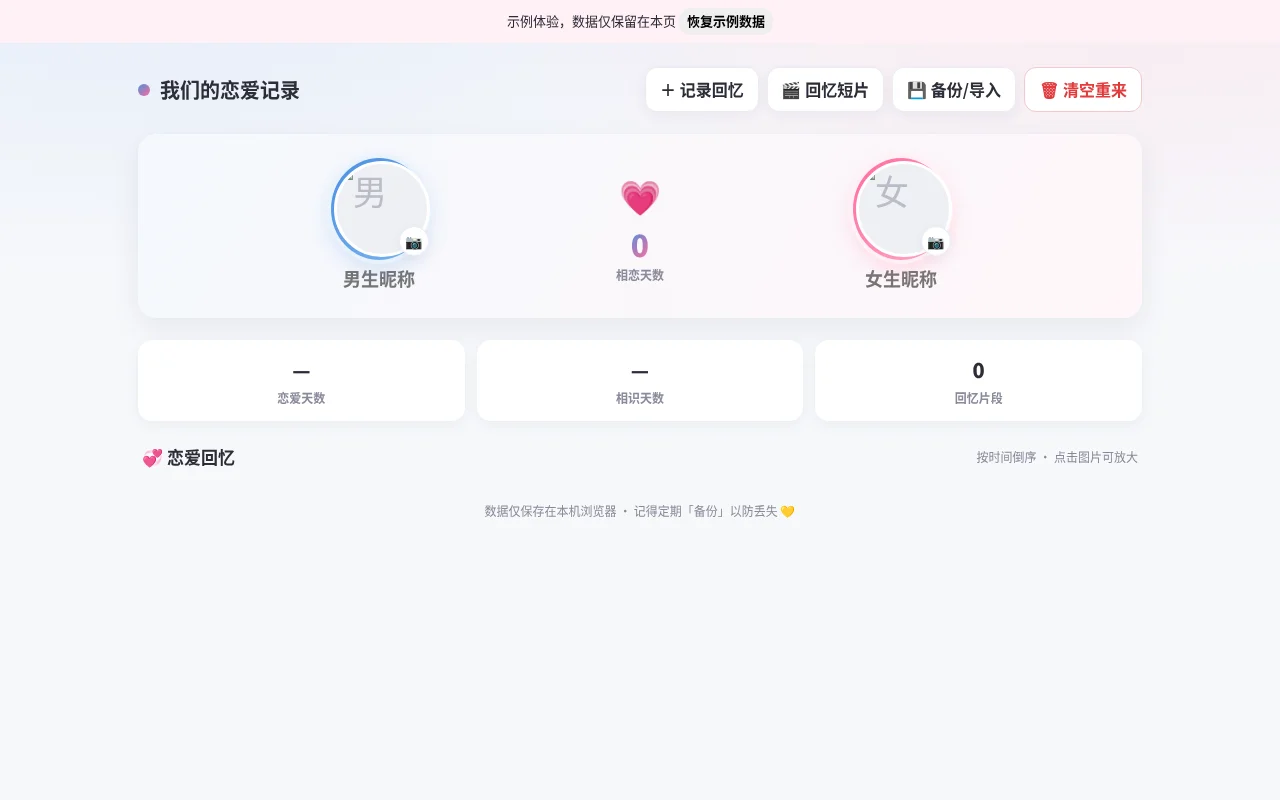
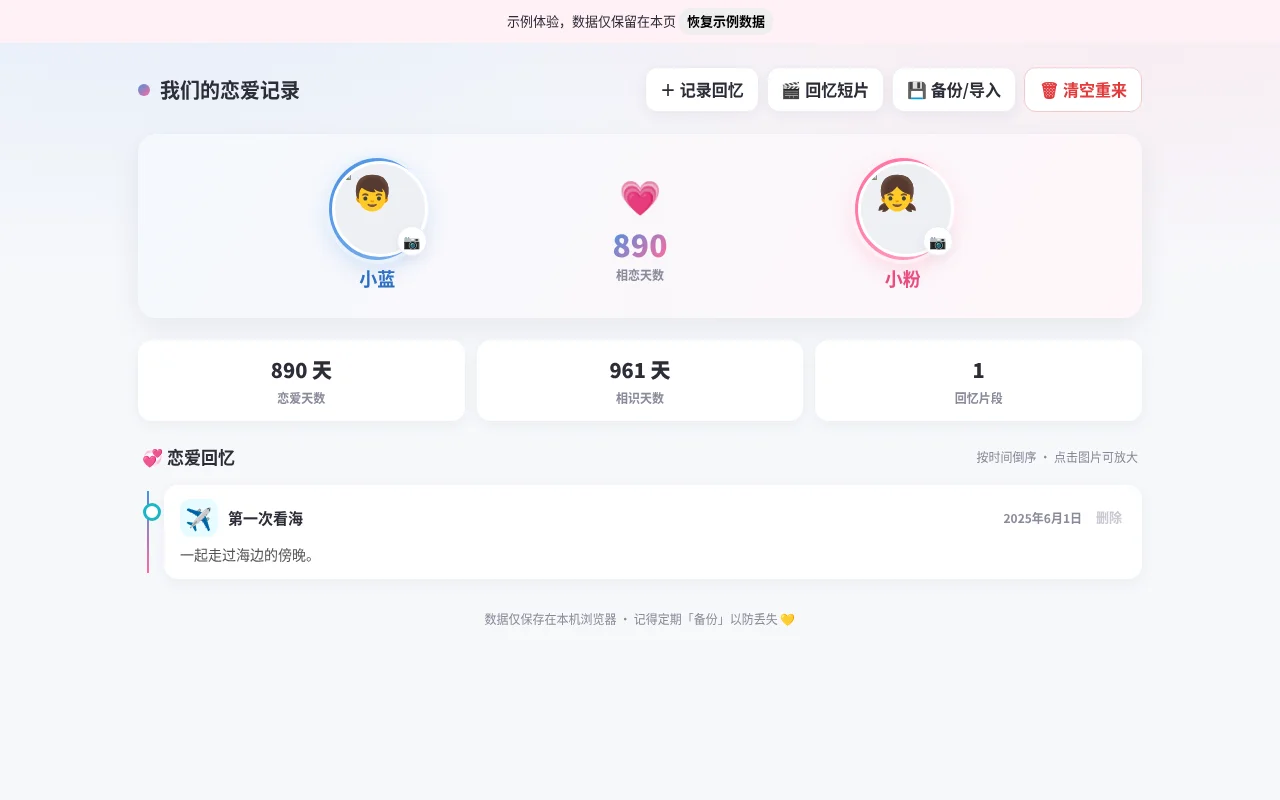
Fix love diary initialization

diff --git a/wb1024-c192-579a6fe9/src/app.js b/wb1024-c192-579a6fe9/src/app.js
@@ -1,7 +1,6 @@
 import css from "./style.css";
 const style=document.createElement("style");style.textContent=css;document.head.appendChild(style);
-document.body.innerHTML="\n<div class=\"wrap\">\n  <header class=\"topbar\">\n    <div class=\"brand\"><span class=\"dot\"></span>我们的恋爱记录</div>\n    <div class=\"top-actions\">\n      <button class=\"btn-ghost\" id=\"btnAdd\">＋ 记录回忆</button>\n      <button class=\"btn-ghost\" id=\"btn短片\">🎬 回忆短片</button>\n      <button class=\"btn-ghost\" id=\"btnBackup\">💾 备份/导入</button>\n      <button class=\"btn-danger\" id=\"btnClear\">🗑 清空重来</button>\n    </div>\n  </header>\n\n  <!-- 情侣头部 -->\n  <section class=\"hero\">\n    <div class=\"person male\">\n      <div class=\"avatar-box\">\n        <div class=\"ring\"><img alt=\"男\" class=\"avatar\" id=\"avMale\" src></div>\n        <div class=\"avatar-edit\" data-side=\"male\">📷</div>\n      </div>\n      <div class=\"name\"><input class=\"name-input\" id=\"nmMale\" maxlength=\"12\" placeholder=\"男生昵称\"></div>\n    </div>\n    <div class=\"center-heart\">\n      <div class=\"heart\">💗</div>\n      <div class=\"days-big\" id=\"daysBig\">0</div>\n      <div class=\"days-label\" id=\"daysLabel\">相恋天数</div>\n    </div>\n    <div class=\"person female\">\n      <div class=\"avatar-box\">\n        <div class=\"ring\"><img alt=\"女\" class=\"avatar\" id=\"avFemale\" src></div>\n        <div class=\"avatar-edit\" data-side=\"female\">📷</div>\n      </div>\n      <div class=\"name\"><input class=\"name-input\" id=\"nmFemale\" maxlength=\"12\" placeholder=\"女生昵称\"></div>\n    </div>\n  </section>\n\n  <!-- 数据卡 -->\n  <section class=\"stats\">\n    <div class=\"stat\">\n      <div class=\"num\" id=\"stTogether\">—</div>\n      <div class=\"lab\">恋爱天数</div>\n      <div class=\"edithint\" data-edit=\"anniversary\">设置纪念日</div>\n    </div>\n    <div class=\"stat\">\n      <div class=\"num\" id=\"stMet\">—</div>\n      <div class=\"lab\">相识天数</div>\n      <div class=\"edithint\" data-edit=\"firstMet\">设置相识日</div>\n    </div>\n    <div class=\"stat\">\n      <div class=\"num\" id=\"stCount\">0</div>\n      <div class=\"lab\">回忆片段</div>\n      <div class=\"edithint\" id=\"addFromStat\" style=\"cursor:pointer; color:var(--pink)\">＋ 添加</div>\n    </div>\n  </section>\n\n  <!-- 回忆时间线 -->\n  <div class=\"section-title\">\n    <h2>💞 恋爱回忆</h2>\n    <span class=\"hint\">按时间倒序 · 点击图片可放大</span>\n  </div>\n  <div class=\"timeline\" id=\"timeline\"></div>\n\n  <footer class=\"foot\">数据仅保存在本机浏览器 · 记得定期「备份」以防丢失 💛</footer>\n</div>\n\n<!-- 添加回忆弹窗 -->\n<div class=\"mask\" id=\"maskAdd\">\n  <div class=\"modal\">\n    <h3>记录一段恋爱回忆</h3>\n    <div class=\"field\">\n      <label>选择类型</label>\n      <div class=\"type-grid\" id=\"typeGrid\"></div>\n    </div>\n    <div class=\"field\">\n      <label>标题</label>\n      <input id=\"mTitle\" maxlength=\"30\" placeholder=\"例如：第一次一起看海\" type=\"text\">\n    </div>\n    <div class=\"field\">\n      <label>日期</label>\n      <input id=\"mDate\" type=\"date\">\n    </div>\n    <div class=\"field\">\n      <label>小记</label>\n      <textarea id=\"mDesc\" placeholder=\"写下那一刻的心情吧～\"></textarea>\n    </div>\n    <div class=\"field\">\n      <label>照片（可多张）</label>\n      <div class=\"upload-zone\" id=\"uploadZone\">点击或拖拽上传图片</div>\n      <input accept=\"image/*\" hidden id=\"fileInput\" multiple type=\"file\">\n      <div class=\"preview-imgs\" id=\"previewImgs\"></div>\n    </div>\n    <div class=\"modal-actions\">\n      <button class=\"btn-ghost\" id=\"mCancel\">取消</button>\n      <button class=\"btn-blue\" id=\"mSave\">保存回忆</button>\n    </div>\n  </div>\n</div>\n\n<!-- 日期设置弹窗 -->\n<div class=\"mask\" id=\"maskDate\">\n  <div class=\"modal\">\n    <h3 id=\"dateTitle\">设置日期</h3>\n    <div class=\"field\">\n      <label id=\"dateLabel\">选择日期</label>\n      <input id=\"dateInput\" type=\"date\">\n    </div>\n    <div class=\"modal-actions\">\n      <button class=\"btn-ghost\" id=\"dateCancel\">取消</button>\n      <button class=\"btn-blue\" id=\"dateSave\">保存</button>\n    </div>\n  </div>\n</div>\n\n<!-- 备份导入弹窗 -->\n<div class=\"mask\" id=\"maskBackup\">\n  <div class=\"modal\">\n    <h3>备份 / 导入数据</h3>\n    <p style=\"font-size:13px; color:var(--muted); margin-bottom:14px\">导出会把所有信息保存成一个文件，换电脑或清缓存前记得备份；导入可还原之前的备份。</p>\n    <div class=\"field\">\n      <button class=\"btn-blue\" id=\"exportBtn\" style=\"width:100%\">⬇ 导出备份文件（.json）</button>\n    </div>\n    <div class=\"field\">\n      <label style=\"margin-bottom:8px\">从备份文件导入</label>\n      <input accept=\"application/json,.json\" hidden id=\"importInput\" type=\"file\">\n      <button class=\"btn-ghost\" id=\"importPick\" style=\"width:100%\">⬆ 选择备份文件导入</button>\n    </div>\n    <div class=\"modal-actions\">\n      <button class=\"btn-ghost\" id=\"backupCancel\">关闭</button>\n    </div>\n  </div>\n</div>\n\n<div class=\"lightbox\" id=\"lightbox\"><button class=\"close\" id=\"lbClose\">×</button><img id=\"lbImg\" src></div>\n<div class=\"toast\" id=\"toast\"></div>\n<input accept=\"image/*\" hidden id=\"avatarInput\" type=\"file\">\n\n<script>\n/* ============ 数据层 ============ */\nconst KEY='loveRecordData_v1';\nconst TYPES=[\n  {k:'meet',e:'🤝',t:'第一次见面',cls:''},\n  {k:'eat',e:'🍜',t:'第一次吃饭',cls:'type-eat'},\n  {k:'pet',e:'🐱',t:'共同养宠物',cls:'type-pet'},\n  {k:'newyear',e:'🎆',t:'一起跨年',cls:'type-newyear'},\n  {k:'travel',e:'✈',t:'第一次旅行',cls:'type-travel'},\n  {k:'confess',e:'💕',t:'告白那天',cls:'type-confess'},\n  {k:'propose',e:'💍',t:'求婚时刻',cls:'type-propose'},\n  {k:'star',e:'⭐',t:'其他回忆',cls:''},\n];\nconst typeMap=Object.fromEntries(TYPES.map(t=>[t.k,t]));\n\nlet state=load();\nfunction load(){\n  try{\n    const raw=localStorage.getItem(KEY);\n    if(raw) return JSON.parse(raw);\n  }catch(e){}\n  return {\n    male:{name:'',avatar:''},\n    female:{name:'',avatar:''},\n    anniversary:'',   // 在一起纪念日\n    firstMet:'',       // 相识日期\n    memories:[]\n  };\n}\nfunction save(){localStorage.setItem(KEY,JSON.stringify(state));}\n\n/* ============ 工具 ============ */\nfunction $(id){return document.getElementById(id);}\nfunction toast(msg){\n  const t=$('toast');t.textContent=msg;t.classList.add('show');\n  clearTimeout(t._t);t._t=setTimeout(()=>t.classList.remove('show'),1800);\n}\nfunction daysBetween(a,b){ // a,b: yyyy-mm-dd\n  if(!a||!b) return null;\n  const d1=new Date(a+'T00:00:00'),d2=new Date(b+'T00:00:00');\n  return Math.round((d2-d1)/86400000);\n}\nfunction today(){return new Date().toISOString().slice(0,10);}\nfunction fmtDate(s){if(!s)return'';const[y,m,d]=s.split('-');return `${y}年${+m}月${+d}日`;}\n\n/* ============ 渲染 ============ */\nfunction render(){\n  $('nmMale').value=state.male.name||'';\n  $('nmFemale').value=state.female.name||'';\n  setAvatar('avMale',state.male.avatar,'👦');\n  setAvatar('avFemale',state.female.avatar,'👧');\n\n  const t=today();\n  const together=daysBetween(state.anniversary,t);\n  const met=daysBetween(state.firstMet,t);\n  $('daysBig').textContent=together!=null&&together>=0?together:0;\n  $('stTogether').textContent=together!=null&&together>=0?together+' 天':'未设置';\n  $('stMet').textContent=met!=null&&met>=0?met+' 天':'未设置';\n  $('stMet').title=state.firstMet?fmtDate(state.firstMet):'';\n  $('stCount').textContent=state.memories.length;\n\n  renderTimeline();\n}\nfunction setAvatar(id,src,placeholder){\n  const el=$(id);\n  if(src){el.src=src;el.style.color='transparent';}\n  else{el.removeAttribute('src');el.alt=placeholder;el.style.color='';}\n}\nfunction renderTimeline(){\n  const box=$('timeline');\n  if(!state.memories.length){\n    box.innerHTML=`<div class=\"empty\"><div class=\"big\">📖</div>还没有回忆，点右上角「＋ 记录回忆」写下第一个故事吧～</div>`;\n    return;\n  }\n  const list=[...state.memories].sort((a,b)=>(b.date||'').localeCompare(a.date||''));\n  box.innerHTML=list.map(m=>{\n    const ty=typeMap[m.type]||{e:'⭐',t:'回忆',cls:''};\n    const imgs=(m.images||[]).map(src=>`<img src=\"${src}\" data-full=\"${src}\" alt=\"\">`).join('');\n    return `<div class=\"mem ${ty.cls}\">\n      <div class=\"mem-head\">\n        <div class=\"mem-emoji\">${m.customEmoji||ty.e}</div>\n        <div class=\"mem-title\">${escapeHtml(m.title||ty.t)}</div>\n        <div class=\"mem-date\">${m.date?fmtDate(m.date):''}</div>\n        <button class=\"mem-del\" data-del=\"${m.id}\">删除</button>\n      </div>\n      ${m.desc?`<div class=\"mem-desc\">${escapeHtml(m.desc)}</div>`:''}\n      ${imgs?`<div class=\"mem-imgs\">${imgs}</div>`:''}\n    </div>`;\n  }).join('');\n}\nfunction escapeHtml(s){return (s||'').replace(/[&<>\"]/g,c=>({'&':'&amp;','<':'&lt;','>':'&gt;','\"':'&quot;'}[c]));}\n\n/* ============ 头像上传 ============ */\ndocument.querySelectorAll('.avatar-edit').forEach(btn=>{\n  btn.addEventListener('click',()=>{$('avatarInput').dataset.side=btn.dataset.side;$('avatarInput').click();});\n});\n$('avatarInput').addEventListener('change',e=>{\n  const f=e.target.files[0];if(!f)return;\n  compressImage(f,400,0.85,b64=>{\n    const side=$('avatarInput').dataset.side;\n    state[side].avatar=b64;save();render();toast('头像已更新 ✨');\n  });\n});\n$('nmMale').addEventListener('input',e=>{state.male.name=e.target.value;save();});\n$('nmFemale').addEventListener('input',e=>{state.female.name=e.target.value;save();});\n\n/* ============ 图片压缩 ============ */\nfunction compressImage(file,maxW,quality,cb){\n  const reader=new FileReader();\n  reader.onload=ev=>{\n    const img=new Image();\n    img.onload=()=>{\n      let {width,height}=img;\n      if(width>maxW){height=Math.round(height*maxW/width);width=maxW;}\n      const cv=document.createElement('canvas');cv.width=width;cv.height=height;\n      cv.getContext('2d').drawImage(img,0,0,width,height);\n      cb(cv.toDataURL('image/jpeg',quality));\n    };\n    img.src=ev.target.result;\n  };\n  reader.readAsDataURL(file);\n}\n\n/* ============ 添加回忆 ============ */\nlet curType='meet';let curCustomEmoji=null;let pendingImgs=[];\nfunction buildTypeGrid(){\n  $('typeGrid').innerHTML=TYPES.map((t,i)=>\n    `<div class=\"type-chip ${i===0?'sel':''} ${t.k==='star'?'custom':''}\" data-k=\"${t.k}\">\n       <span class=\"e\">${t.e}</span>${t.t}\n     </div>`).join('');\n  $('typeGrid').querySelectorAll('.type-chip').forEach(c=>{\n    c.addEventListener('click',()=>{\n      $('typeGrid').querySelectorAll('.type-chip').forEach(x=>x.classList.remove('sel'));\n      c.classList.add('sel');curType=c.dataset.k;curCustomEmoji=null;\n      const ty=typeMap[curType];$('mTitle').value=ty.t;\n    });\n  });\n}\n$('btnAdd').addEventListener('click',openAdd);\n$('addFromStat').addEventListener('click',openAdd);\nfunction openAdd(){\n  curType='meet';curCustomEmoji=null;pendingImgs=[];\n  buildTypeGrid();\n  $('typeGrid').querySelector('.type-chip').classList.add('sel');\n  $('mTitle').value='第一次见面';\n  $('mDate').value=today();\n  $('mDesc').value='';\n  $('previewImgs').innerHTML='';\n  $('maskAdd').classList.add('show');\n}\n$('mCancel').addEventListener('click',()=>$('maskAdd').classList.remove('show'));\n$('uploadZone').addEventListener('click',()=>$('fileInput').click());\n$('uploadZone').addEventListener('dragover',e=>{e.preventDefault();$('uploadZone').style.borderColor='var(--blue)';});\n$('uploadZone').addEventListener('dragleave',()=>$('uploadZone').style.borderColor='');\n$('uploadZone').addEventListener('drop',e=>{e.preventDefault();handleFiles(e.dataTransfer.files);});\n$('fileInput').addEventListener('change',e=>handleFiles(e.target.files));\nfunction handleFiles(files){\n  [...files].forEach(f=>{\n    compressImage(f,1000,0.8,b64=>{pendingImgs.push(b64);renderPreview();});\n  });\n}\nfunction renderPreview(){\n  $('previewImgs').innerHTML=pendingImgs.map((s,i)=>\n    `<div class=\"pv\"><img src=\"${s}\"><button class=\"x\" data-i=\"${i}\">×</button></div>`).join('');\n  $('previewImgs').querySelectorAll('.x').forEach(b=>{\n    b.addEventListener('click',()=>{pendingImgs.splice(+b.dataset.i,1);renderPreview();});\n  });\n}\n$('mSave').addEventListener('click',()=>{\n  const title=$('mTitle').value.trim()||typeMap[curType].t;\n  const date=$('mDate').value;\n  if(!date){toast('请选择日期');return;}\n  state.memories.push({\n    id:'m'+Date.now()+Math.random().toString(36).slice(2,6),\n    type:curType,title,date,desc:$('mDesc').value.trim(),\n    images:[...pendingImgs],customEmoji:curCustomEmoji\n  });\n  save();render();$('maskAdd').classList.remove('show');toast('已记录这段回忆 💞');\n});\n\n/* 删除回忆 */\n$('timeline').addEventListener('click',e=>{\n  const del=e.target.dataset.del;\n  if(del){\n    if(confirm('确定删除这段回忆吗？')){\n      state.memories=state.memories.filter(m=>m.id!==del);save();render();toast('已删除');\n    }\n    return;\n  }\n  const full=e.target.dataset.full;\n  if(full){$('lbImg').src=full;$('lightbox').classList.add('show');}\n});\n$('lbClose').addEventListener('click',()=>$('lightbox').classList.remove('show'));\n$('lightbox').addEventListener('click',e=>{if(e.target.id==='lightbox')$('lightbox').classList.remove('show');});\n\n/* ============ 日期设置 ============ */\ndocument.querySelectorAll('.edithint[data-edit]').forEach(h=>{\n  h.addEventListener('click',()=>{\n    const which=h.dataset.edit;\n    $('dateTitle').textContent=which==='anniversary'?'设置「在一起」纪念日':'设置「相识」日期';\n    $('dateLabel').textContent=which==='anniversary'?'从这一天起正式在一起 💍':'记得最初相遇的那天 👀';\n    $('dateInput').value=state[which]||'';\n    $('dateSave').dataset.which=which;\n    $('maskDate').classList.add('show');\n  });\n});\n$('dateCancel').addEventListener('click',()=>$('maskDate').classList.remove('show'));\n$('dateSave').addEventListener('click',()=>{\n  const which=$('dateSave').dataset.which;\n  state[which]=$('dateInput').value;save();render();\n  $('maskDate').classList.remove('show');toast('日期已保存 ✅');\n});\n\n/* ============ 备份 / 导入 ============ */\n$('btnBackup').addEventListener('click',()=>$('maskBackup').classList.add('show'));\n$('backupCancel').addEventListener('click',()=>$('maskBackup').classList.remove('show'));\n$('exportBtn').addEventListener('click',()=>{\n  const blob=new Blob([JSON.stringify(state,null,2)],{type:'application/json'});\n  const a=document.createElement('a');\n  const name=`恋爱记录备份_${today()}.json`;\n  a.href=URL.createObjectURL(blob);a.download=name;a.click();\n  URL.revokeObjectURL(a.href);toast('备份已导出 💾');\n});\n$('importPick').addEventListener('click',()=>$('importInput').click());\n$('importInput').addEventListener('change',e=>{\n  const f=e.target.files[0];if(!f)return;\n  const r=new FileReader();\n  r.onload=ev=>{\n    try{\n      const data=JSON.parse(ev.target.result);\n      if(!confirm('导入会覆盖当前数据，确定继续吗？'))return;\n      state=Object.assign(load(),data);save();render();\n      $('maskBackup').classList.remove('show');toast('备份已导入 ✅');\n    }catch(err){toast('文件格式不正确');}\n  };\n  r.readAsText(f);\n});\n\n/* ============ 清空重来 ============ */\n$('btnClear').addEventListener('click',()=>{\n  if(confirm('⚠ 将清空所有信息、头像和回忆，且无法恢复（除非已备份）。确定吗？')){\n    if(confirm('再确认一次：真的要清空重来吗？')){\n      state=load();state.memories=[];state.male={name:'',avatar:''};state.female={name:'',avatar:''};\n      state.anniversary='';state.firstMet='';save();render();toast('已清空，重新开始吧 🌱');\n    }\n  }\n});\n\n/* ============ 回忆短片（独立可分享 HTML） ============ */\n$('btn短片').addEventListener('click',()=>{\n  if(!state.memories.length){toast('还没有回忆可以做成短片哦');return;}\n  const html=buildSlideshow();\n  const blob=new Blob([html],{type:'text/html'});\n  const a=document.createElement('a');\n  a.href=URL.createObjectURL(blob);a.download=`回忆短片_${today()}.html`;a.click();\n  URL.revokeObjectURL(a.href);toast('回忆短片已生成 🎬 用浏览器打开即可播放');\n});\nfunction buildSlideshow(){\n  const m=state.male.name||'他',f=state.female.name||'她';\n  const list=[...state.memories].sort((a,b)=>(a.date||'').localeCompare(b.date||''));\n  const slides=list.map(x=>{\n    const ty=typeMap[x.type]||{e:'⭐',t:'回忆'};\n    const imgs=(x.images||[]).map(s=>`<div class=\"ph\"><img src=\"${s}\"></div>`).join('');\n    return `<section class=\"slide\"><div class=\"emoji\">${x.customEmoji||ty.e}</div>\n      <h2>${escapeHtml(x.title||ty.t)}</h2>\n      <p class=\"dt\">${x.date?fmtDate(x.date):''}</p>\n      ${x.desc?`<p class=\"desc\">${escapeHtml(x.desc)}</p>`:''}\n      ${imgs?`<div class=\"photos\">${imgs}</div>`:''}</section>`;\n  }).join('');\n  return `<!DOCTYPE html><html lang=\"zh-CN\"><head><meta charset=\"UTF-8\">\n<meta name=\"viewport\" content=\"width=device-width,initial-scale=1\">\n<title>${escapeHtml(m)} & ${escapeHtml(f)} 的回忆短片</title>\n<style>\n*{box-sizing:border-box;margin:0;padding:0}\nbody{font-family:\"PingFang SC\",\"Microsoft YaHei\",sans-serif;background:#11131a;color:#fff;overflow:hidden}\n.slide{position:absolute;inset:0;display:none;flex-direction:column;align-items:center;justify-content:center;\n  padding:40px;text-align:center;background:radial-gradient(900px 500px at 50% 30%,rgba(74,144,226,.25),transparent),radial-gradient(900px 500px at 50% 80%,rgba(255,107,157,.25),transparent),#11131a;animation:fade .8s ease}\n.slide.on{display:flex}\n@keyframes fade{from{opacity:0;transform:scale(.98)}to{opacity:1;transform:none}}\n.emoji{font-size:64px;margin-bottom:14px;animation:beat 1.6s infinite}\n@keyframes beat{0%,100%{transform:scale(1)}30%{transform:scale(1.12)}}\n.slide h2{font-size:30px;margin-bottom:8px}\n.dt{color:#ffd2e2;font-weight:600;margin-bottom:14px}\n.desc{color:#cfd2dc;max-width:560px;white-space:pre-wrap;line-height:1.7}\n.photos{display:flex;gap:12px;margin-top:22px;flex-wrap:wrap;justify-content:center}\n.ph img{width:200px;height:200px;object-fit:cover;border-radius:14px;box-shadow:0 8px 28px rgba(0,0,0,.4)}\n.hud{position:fixed;left:0;right:0;bottom:18px;text-align:center;color:#9aa;font-size:13px;z-index:5}\n.bar{position:fixed;top:0;left:0;height:4px;background:linear-gradient(90deg,#4a90e2,#ff6b9d);z-index:5;transition:width .4s}\n.titlecard{position:absolute;inset:0;display:flex;flex-direction:column;align-items:center;justify-content:center;text-align:center;z-index:3}\n.titlecard h1{font-size:40px;background:linear-gradient(135deg,#7db4f0,#ffa6c4);-webkit-background-clip:text;background-clip:text;color:transparent}\n.titlecard p{color:#cfd2dc;margin-top:10px}\n</style></head><body>\n<div class=\"bar\" id=\"bar\"></div>\n<div class=\"titlecard\" id=\"tc\"><h1>${escapeHtml(m)} ❤ ${escapeHtml(f)}</h1><p>我们的恋爱回忆短片 · 共 ${list.length} 段</p></div>\n${slides}\n<div class=\"hud\">空格/→ 下一页 · ← 上一页 · 点击切换</div>\n";
-
+document.body.innerHTML="\n<div class=\"wrap\">\n  <header class=\"topbar\">\n    <div class=\"brand\"><span class=\"dot\"></span>我们的恋爱记录</div>\n    <div class=\"top-actions\">\n      <button class=\"btn-ghost\" id=\"btnAdd\">＋ 记录回忆</button>\n      <button class=\"btn-ghost\" id=\"btn短片\">🎬 回忆短片</button>\n      <button class=\"btn-ghost\" id=\"btnBackup\">💾 备份/导入</button>\n      <button class=\"btn-danger\" id=\"btnClear\">🗑 清空重来</button>\n    </div>\n  </header>\n\n  <!-- 情侣头部 -->\n  <section class=\"hero\">\n    <div class=\"person male\">\n      <div class=\"avatar-box\">\n        <div class=\"ring\"><img alt=\"男\" class=\"avatar\" id=\"avMale\" src></div>\n        <div class=\"avatar-edit\" data-side=\"male\">📷</div>\n      </div>\n      <div class=\"name\"><input class=\"name-input\" id=\"nmMale\" maxlength=\"12\" placeholder=\"男生昵称\"></div>\n    </div>\n    <div class=\"center-heart\">\n      <div class=\"heart\">💗</div>\n      <div class=\"days-big\" id=\"daysBig\">0</div>\n      <div class=\"days-label\" id=\"daysLabel\">相恋天数</div>\n    </div>\n    <div class=\"person female\">\n      <div class=\"avatar-box\">\n        <div class=\"ring\"><img alt=\"女\" class=\"avatar\" id=\"avFemale\" src></div>\n        <div class=\"avatar-edit\" data-side=\"female\">📷</div>\n      </div>\n      <div class=\"name\"><input class=\"name-input\" id=\"nmFemale\" maxlength=\"12\" placeholder=\"女生昵称\"></div>\n    </div>\n  </section>\n\n  <!-- 数据卡 -->\n  <section class=\"stats\">\n    <div class=\"stat\">\n      <div class=\"num\" id=\"stTogether\">—</div>\n      <div class=\"lab\">恋爱天数</div>\n      <div class=\"edithint\" data-edit=\"anniversary\">设置纪念日</div>\n    </div>\n    <div class=\"stat\">\n      <div class=\"num\" id=\"stMet\">—</div>\n      <div class=\"lab\">相识天数</div>\n      <div class=\"edithint\" data-edit=\"firstMet\">设置相识日</div>\n    </div>\n    <div class=\"stat\">\n      <div class=\"num\" id=\"stCount\">0</div>\n      <div class=\"lab\">回忆片段</div>\n      <div class=\"edithint\" id=\"addFromStat\" style=\"cursor:pointer; color:var(--pink)\">＋ 添加</div>\n    </div>\n  </section>\n\n  <!-- 回忆时间线 -->\n  <div class=\"section-title\">\n    <h2>💞 恋爱回忆</h2>\n    <span class=\"hint\">按时间倒序 · 点击图片可放大</span>\n  </div>\n  <div class=\"timeline\" id=\"timeline\"></div>\n\n  <footer class=\"foot\">数据仅保存在本机浏览器 · 记得定期「备份」以防丢失 💛</footer>\n</div>\n\n<!-- 添加回忆弹窗 -->\n<div class=\"mask\" id=\"maskAdd\">\n  <div class=\"modal\">\n    <h3>记录一段恋爱回忆</h3>\n    <div class=\"field\">\n      <label>选择类型</label>\n      <div class=\"type-grid\" id=\"typeGrid\"></div>\n    </div>\n    <div class=\"field\">\n      <label>标题</label>\n      <input id=\"mTitle\" maxlength=\"30\" placeholder=\"例如：第一次一起看海\" type=\"text\">\n    </div>\n    <div class=\"field\">\n      <label>日期</label>\n      <input id=\"mDate\" type=\"date\">\n    </div>\n    <div class=\"field\">\n      <label>小记</label>\n      <textarea id=\"mDesc\" placeholder=\"写下那一刻的心情吧～\"></textarea>\n    </div>\n    <div class=\"field\">\n      <label>照片（可多张）</label>\n      <div class=\"upload-zone\" id=\"uploadZone\">点击或拖拽上传图片</div>\n      <input accept=\"image/*\" hidden id=\"fileInput\" multiple type=\"file\">\n      <div class=\"preview-imgs\" id=\"previewImgs\"></div>\n    </div>\n    <div class=\"modal-actions\">\n      <button class=\"btn-ghost\" id=\"mCancel\">取消</button>\n      <button class=\"btn-blue\" id=\"mSave\">保存回忆</button>\n    </div>\n  </div>\n</div>\n\n<!-- 日期设置弹窗 -->\n<div class=\"mask\" id=\"maskDate\">\n  <div class=\"modal\">\n    <h3 id=\"dateTitle\">设置日期</h3>\n    <div class=\"field\">\n      <label id=\"dateLabel\">选择日期</label>\n      <input id=\"dateInput\" type=\"date\">\n    </div>\n    <div class=\"modal-actions\">\n      <button class=\"btn-ghost\" id=\"dateCancel\">取消</button>\n      <button class=\"btn-blue\" id=\"dateSave\">保存</button>\n    </div>\n  </div>\n</div>\n\n<!-- 备份导入弹窗 -->\n<div class=\"mask\" id=\"maskBackup\">\n  <div class=\"modal\">\n    <h3>备份 / 导入数据</h3>\n    <p style=\"font-size:13px; color:var(--muted); margin-bottom:14px\">导出会把所有信息保存成一个文件，换电脑或清缓存前记得备份；导入可还原之前的备份。</p>\n    <div class=\"field\">\n      <button class=\"btn-blue\" id=\"exportBtn\" style=\"width:100%\">⬇ 导出备份文件（.json）</button>\n    </div>\n    <div class=\"field\">\n      <label style=\"margin-bottom:8px\">从备份文件导入</label>\n      <input accept=\"application/json,.json\" hidden id=\"importInput\" type=\"file\">\n      <button class=\"btn-ghost\" id=\"importPick\" style=\"width:100%\">⬆ 选择备份文件导入</button>\n    </div>\n    <div class=\"modal-actions\">\n      <button class=\"btn-ghost\" id=\"backupCancel\">关闭</button>\n    </div>\n  </div>\n</div>\n\n<div class=\"lightbox\" id=\"lightbox\"><button class=\"close\" id=\"lbClose\">×</button><img id=\"lbImg\" src></div>\n<div class=\"toast\" id=\"toast\"></div>\n<input accept=\"image/*\" hidden id=\"avatarInput\" type=\"file\">\n\n";
 /* ============ 数据层 ============ */
 const KEY='loveRecordData_v1';
 const TYPES=[

diff --git a/wb1024-c192-579a6fe9/showcase/preview.html b/wb1024-c192-579a6fe9/showcase/preview.html
@@ -308,8 +308,7 @@
 <div class="toast" id="toast"></div>
 <input accept="image/*" hidden id="avatarInput" type="file">
 
-<script>
-/* ============ 数据层 ============ */
+<script>/* ============ 数据层 ============ */
 const KEY='loveRecordData_v1';
 const TYPES=[
   {k:'meet',e:'🤝',t:'第一次见面',cls:''},
@@ -327,302 +326,6 @@ const sample=()=>({male:{name:'小蓝',avatar:''},female:{name:'小粉',avatar:'
 let state=sample();
 function load(){return sample()}
 function save(){}
-/* ============ 工具 ============ */
-function $(id){return document.getElementById(id);}
-function toast(msg){
-  const t=$('toast');t.textContent=msg;t.classList.add('show');
-  clearTimeout(t._t);t._t=setTimeout(()=>t.classList.remove('show'),1800);
-}
-function daysBetween(a,b){ // a,b: yyyy-mm-dd
-  if(!a||!b) return null;
-  const d1=new Date(a+'T00:00:00'),d2=new Date(b+'T00:00:00');
-  return Math.round((d2-d1)/86400000);
-}
-function today(){return new Date().toISOString().slice(0,10);}
-function fmtDate(s){if(!s)return'';const[y,m,d]=s.split('-');return `${y}年${+m}月${+d}日`;}
-
-/* ============ 渲染 ============ */
-function render(){
-  $('nmMale').value=state.male.name||'';
-  $('nmFemale').value=state.female.name||'';
-  setAvatar('avMale',state.male.avatar,'👦');
-  setAvatar('avFemale',state.female.avatar,'👧');
-
-  const t=today();
-  const together=daysBetween(state.anniversary,t);
-  const met=daysBetween(state.firstMet,t);
-  $('daysBig').textContent=together!=null&&together>=0?together:0;
-  $('stTogether').textContent=together!=null&&together>=0?together+' 天':'未设置';
-  $('stMet').textContent=met!=null&&met>=0?met+' 天':'未设置';
-  $('stMet').title=state.firstMet?fmtDate(state.firstMet):'';
-  $('stCount').textContent=state.memories.length;
-
-  renderTimeline();
-}
-function setAvatar(id,src,placeholder){
-  const el=$(id);
-  if(src){el.src=src;el.style.color='transparent';}
-  else{el.removeAttribute('src');el.alt=placeholder;el.style.color='';}
-}
-function renderTimeline(){
-  const box=$('timeline');
-  if(!state.memories.length){
-    box.innerHTML=`<div class="empty"><div class="big">📖</div>还没有回忆，点右上角「＋ 记录回忆」写下第一个故事吧～</div>`;
-    return;
-  }
-  const list=[...state.memories].sort((a,b)=>(b.date||'').localeCompare(a.date||''));
-  box.innerHTML=list.map(m=>{
-    const ty=typeMap[m.type]||{e:'⭐',t:'回忆',cls:''};
-    const imgs=(m.images||[]).map(src=>`<img src="${src}" data-full="${src}" alt="">`).join('');
-    return `<div class="mem ${ty.cls}">
-      <div class="mem-head">
-        <div class="mem-emoji">${m.customEmoji||ty.e}</div>
-        <div class="mem-title">${escapeHtml(m.title||ty.t)}</div>
-        <div class="mem-date">${m.date?fmtDate(m.date):''}</div>
-        <button class="mem-del" data-del="${m.id}">删除</button>
-      </div>
-      ${m.desc?`<div class="mem-desc">${escapeHtml(m.desc)}</div>`:''}
-      ${imgs?`<div class="mem-imgs">${imgs}</div>`:''}
-    </div>`;
-  }).join('');
-}
-function escapeHtml(s){return (s||'').replace(/[&<>"]/g,c=>({'&':'&amp;','<':'&lt;','>':'&gt;','"':'&quot;'}[c]));}
-
-/* ============ 头像上传 ============ */
-document.querySelectorAll('.avatar-edit').forEach(btn=>{
-  btn.addEventListener('click',()=>{$('avatarInput').dataset.side=btn.dataset.side;$('avatarInput').click();});
-});
-$('avatarInput').addEventListener('change',e=>{
-  const f=e.target.files[0];if(!f)return;
-  compressImage(f,400,0.85,b64=>{
-    const side=$('avatarInput').dataset.side;
-    state[side].avatar=b64;save();render();toast('头像已更新 ✨');
-  });
-});
-$('nmMale').addEventListener('input',e=>{state.male.name=e.target.value;save();});
-$('nmFemale').addEventListener('input',e=>{state.female.name=e.target.value;save();});
-
-/* ============ 图片压缩 ============ */
-function compressImage(file,maxW,quality,cb){
-  const reader=new FileReader();
-  reader.onload=ev=>{
-    const img=new Image();
-    img.onload=()=>{
-      let {width,height}=img;
-      if(width>maxW){height=Math.round(height*maxW/width);width=maxW;}
-      const cv=document.createElement('canvas');cv.width=width;cv.height=height;
-      cv.getContext('2d').drawImage(img,0,0,width,height);
-      cb(cv.toDataURL('image/jpeg',quality));
-    };
-    img.src=ev.target.result;
-  };
-  reader.readAsDataURL(file);
-}
-
-/* ============ 添加回忆 ============ */
-let curType='meet';let curCustomEmoji=null;let pendingImgs=[];
-function buildTypeGrid(){
-  $('typeGrid').innerHTML=TYPES.map((t,i)=>
-    `<div class="type-chip ${i===0?'sel':''} ${t.k==='star'?'custom':''}" data-k="${t.k}">
-       <span class="e">${t.e}</span>${t.t}
-     </div>`).join('');
-  $('typeGrid').querySelectorAll('.type-chip').forEach(c=>{
-    c.addEventListener('click',()=>{
-      $('typeGrid').querySelectorAll('.type-chip').forEach(x=>x.classList.remove('sel'));
-      c.classList.add('sel');curType=c.dataset.k;curCustomEmoji=null;
-      const ty=typeMap[curType];$('mTitle').value=ty.t;
-    });
-  });
-}
-$('btnAdd').addEventListener('click',openAdd);
-$('addFromStat').addEventListener('click',openAdd);
-function openAdd(){
-  curType='meet';curCustomEmoji=null;pendingImgs=[];
-  buildTypeGrid();
-  $('typeGrid').querySelector('.type-chip').classList.add('sel');
-  $('mTitle').value='第一次见面';
-  $('mDate').value=today();
-  $('mDesc').value='';
-  $('previewImgs').innerHTML='';
-  $('maskAdd').classList.add('show');
-}
-$('mCancel').addEventListener('click',()=>$('maskAdd').classList.remove('show'));
-$('uploadZone').addEventListener('click',()=>$('fileInput').click());
-$('uploadZone').addEventListener('dragover',e=>{e.preventDefault();$('uploadZone').style.borderColor='var(--blue)';});
-$('uploadZone').addEventListener('dragleave',()=>$('uploadZone').style.borderColor='');
-$('uploadZone').addEventListener('drop',e=>{e.preventDefault();handleFiles(e.dataTransfer.files);});
-$('fileInput').addEventListener('change',e=>handleFiles(e.target.files));
-function handleFiles(files){
-  [...files].forEach(f=>{
-    compressImage(f,1000,0.8,b64=>{pendingImgs.push(b64);renderPreview();});
-  });
-}
-function renderPreview(){
-  $('previewImgs').innerHTML=pendingImgs.map((s,i)=>
-    `<div class="pv"><img src="${s}"><button class="x" data-i="${i}">×</button></div>`).join('');
-  $('previewImgs').querySelectorAll('.x').forEach(b=>{
-    b.addEventListener('click',()=>{pendingImgs.splice(+b.dataset.i,1);renderPreview();});
-  });
-}
-$('mSave').addEventListener('click',()=>{
-  const title=$('mTitle').value.trim()||typeMap[curType].t;
-  const date=$('mDate').value;
-  if(!date){toast('请选择日期');return;}
-  state.memories.push({
-    id:'m'+Date.now()+Math.random().toString(36).slice(2,6),
-    type:curType,title,date,desc:$('mDesc').value.trim(),
-    images:[...pendingImgs],customEmoji:curCustomEmoji
-  });
-  save();render();$('maskAdd').classList.remove('show');toast('已记录这段回忆 💞');
-});
-
-/* 删除回忆 */
-$('timeline').addEventListener('click',e=>{
-  const del=e.target.dataset.del;
-  if(del){
-    if(confirm('确定删除这段回忆吗？')){
-      state.memories=state.memories.filter(m=>m.id!==del);save();render();toast('已删除');
-    }
-    return;
-  }
-  const full=e.target.dataset.full;
-  if(full){$('lbImg').src=full;$('lightbox').classList.add('show');}
-});
-$('lbClose').addEventListener('click',()=>$('lightbox').classList.remove('show'));
-$('lightbox').addEventListener('click',e=>{if(e.target.id==='lightbox')$('lightbox').classList.remove('show');});
-
-/* ============ 日期设置 ============ */
-document.querySelectorAll('.edithint[data-edit]').forEach(h=>{
-  h.addEventListener('click',()=>{
-    const which=h.dataset.edit;
-    $('dateTitle').textContent=which==='anniversary'?'设置「在一起」纪念日':'设置「相识」日期';
-    $('dateLabel').textContent=which==='anniversary'?'从这一天起正式在一起 💍':'记得最初相遇的那天 👀';
-    $('dateInput').value=state[which]||'';
-    $('dateSave').dataset.which=which;
-    $('maskDate').classList.add('show');
-  });
-});
-$('dateCancel').addEventListener('click',()=>$('maskDate').classList.remove('show'));
-$('dateSave').addEventListener('click',()=>{
-  const which=$('dateSave').dataset.which;
-  state[which]=$('dateInput').value;save();render();
-  $('maskDate').classList.remove('show');toast('日期已保存 ✅');
-});
-
-/* ============ 备份 / 导入 ============ */
-$('btnBackup').addEventListener('click',()=>$('maskBackup').classList.add('show'));
-$('backupCancel').addEventListener('click',()=>$('maskBackup').classList.remove('show'));
-$('exportBtn').addEventListener('click',()=>{
-  const blob=new Blob([JSON.stringify(state,null,2)],{type:'application/json'});
-  const a=document.createElement('a');
-  const name=`恋爱记录备份_${today()}.json`;
-  a.href=URL.createObjectURL(blob);a.download=name;a.click();
-  URL.revokeObjectURL(a.href);toast('备份已导出 💾');
-});
-$('importPick').addEventListener('click',()=>$('importInput').click());
-$('importInput').addEventListener('change',e=>{
-  const f=e.target.files[0];if(!f)return;
-  const r=new FileReader();
-  r.onload=ev=>{
-    try{
-      const data=JSON.parse(ev.target.result);
-      if(!confirm('导入会覆盖当前数据，确定继续吗？'))return;
-      state=Object.assign(load(),data);save();render();
-      $('maskBackup').classList.remove('show');toast('备份已导入 ✅');
-    }catch(err){toast('文件格式不正确');}
-  };
-  r.readAsText(f);
-});
-
-/* ============ 清空重来 ============ */
-$('btnClear').addEventListener('click',()=>{
-  if(confirm('⚠ 将清空所有信息、头像和回忆，且无法恢复（除非已备份）。确定吗？')){
-    if(confirm('再确认一次：真的要清空重来吗？')){
-      state=load();state.memories=[];state.male={name:'',avatar:''};state.female={name:'',avatar:''};
-      state.anniversary='';state.firstMet='';save();render();toast('已清空，重新开始吧 🌱');
-    }
-  }
-});
-
-/* ============ 回忆短片（独立可分享 HTML） ============ */
-$('btn短片').addEventListener('click',()=>{
-  if(!state.memories.length){toast('还没有回忆可以做成短片哦');return;}
-  const html=buildSlideshow();
-  const blob=new Blob([html],{type:'text/html'});
-  const a=document.createElement('a');
-  a.href=URL.createObjectURL(blob);a.download=`回忆短片_${today()}.html`;a.click();
-  URL.revokeObjectURL(a.href);toast('回忆短片已生成 🎬 用浏览器打开即可播放');
-});
-function buildSlideshow(){
-  const m=state.male.name||'他',f=state.female.name||'她';
-  const list=[...state.memories].sort((a,b)=>(a.date||'').localeCompare(b.date||''));
-  const slides=list.map(x=>{
-    const ty=typeMap[x.type]||{e:'⭐',t:'回忆'};
-    const imgs=(x.images||[]).map(s=>`<div class="ph"><img src="${s}"></div>`).join('');
-    return `<section class="slide"><div class="emoji">${x.customEmoji||ty.e}</div>
-      <h2>${escapeHtml(x.title||ty.t)}</h2>
-      <p class="dt">${x.date?fmtDate(x.date):''}</p>
-      ${x.desc?`<p class="desc">${escapeHtml(x.desc)}</p>`:''}
-      ${imgs?`<div class="photos">${imgs}</div>`:''}</section>`;
-  }).join('');
-  return `<!DOCTYPE html><html lang="zh-CN"><head><meta charset="UTF-8">
-<meta name="viewport" content="width=device-width,initial-scale=1">
-<title>${escapeHtml(m)} & ${escapeHtml(f)} 的回忆短片</title>
-<style>
-*{box-sizing:border-box;margin:0;padding:0}
-body{font-family:"PingFang SC","Microsoft YaHei",sans-serif;background:#11131a;color:#fff;overflow:hidden}
-.slide{position:absolute;inset:0;display:none;flex-direction:column;align-items:center;justify-content:center;
-  padding:40px;text-align:center;background:radial-gradient(900px 500px at 50% 30%,rgba(74,144,226,.25),transparent),radial-gradient(900px 500px at 50% 80%,rgba(255,107,157,.25),transparent),#11131a;animation:fade .8s ease}
-.slide.on{display:flex}
-@keyframes fade{from{opacity:0;transform:scale(.98)}to{opacity:1;transform:none}}
-.emoji{font-size:64px;margin-bottom:14px;animation:beat 1.6s infinite}
-@keyframes beat{0%,100%{transform:scale(1)}30%{transform:scale(1.12)}}
-.slide h2{font-size:30px;margin-bottom:8px}
-.dt{color:#ffd2e2;font-weight:600;margin-bottom:14px}
-.desc{color:#cfd2dc;max-width:560px;white-space:pre-wrap;line-height:1.7}
-.photos{display:flex;gap:12px;margin-top:22px;flex-wrap:wrap;justify-content:center}
-.ph img{width:200px;height:200px;object-fit:cover;border-radius:14px;box-shadow:0 8px 28px rgba(0,0,0,.4)}
-.hud{position:fixed;left:0;right:0;bottom:18px;text-align:center;color:#9aa;font-size:13px;z-index:5}
-.bar{position:fixed;top:0;left:0;height:4px;background:linear-gradient(90deg,#4a90e2,#ff6b9d);z-index:5;transition:width .4s}
-.titlecard{position:absolute;inset:0;display:flex;flex-direction:column;align-items:center;justify-content:center;text-align:center;z-index:3}
-.titlecard h1{font-size:40px;background:linear-gradient(135deg,#7db4f0,#ffa6c4);-webkit-background-clip:text;background-clip:text;color:transparent}
-.titlecard p{color:#cfd2dc;margin-top:10px}
-</style></head><body>
-<div class="bar" id="bar"></div>
-<div class="titlecard" id="tc"><h1>${escapeHtml(m)} ❤ ${escapeHtml(f)}</h1><p>我们的恋爱回忆短片 · 共 ${list.length} 段</p></div>
-${slides}
-<div class="hud">空格/→ 下一页 · ← 上一页 · 点击切换</div>
-<script>
-/* ============ 数据层 ============ */
-const KEY='loveRecordData_v1';
-const TYPES=[
-  {k:'meet',e:'🤝',t:'第一次见面',cls:''},
-  {k:'eat',e:'🍜',t:'第一次吃饭',cls:'type-eat'},
-  {k:'pet',e:'🐱',t:'共同养宠物',cls:'type-pet'},
-  {k:'newyear',e:'🎆',t:'一起跨年',cls:'type-newyear'},
-  {k:'travel',e:'✈',t:'第一次旅行',cls:'type-travel'},
-  {k:'confess',e:'💕',t:'告白那天',cls:'type-confess'},
-  {k:'propose',e:'💍',t:'求婚时刻',cls:'type-propose'},
-  {k:'star',e:'⭐',t:'其他回忆',cls:''},
-];
-const typeMap=Object.fromEntries(TYPES.map(t=>[t.k,t]));
-
-let state=load();
-function load(){
-  try{
-    const raw=localStorage.getItem(KEY);
-    if(raw) return JSON.parse(raw);
-  }catch(e){}
-  return {
-    male:{name:'',avatar:''},
-    female:{name:'',avatar:''},
-    anniversary:'',   // 在一起纪念日
-    firstMet:'',       // 相识日期
-    memories:[]
-  };
-}
-function save(){localStorage.setItem(KEY,JSON.stringify(state));}
-
 /* ============ 工具 ============ */
 function $(id){return document.getElementById(id);}
 function toast(msg){
